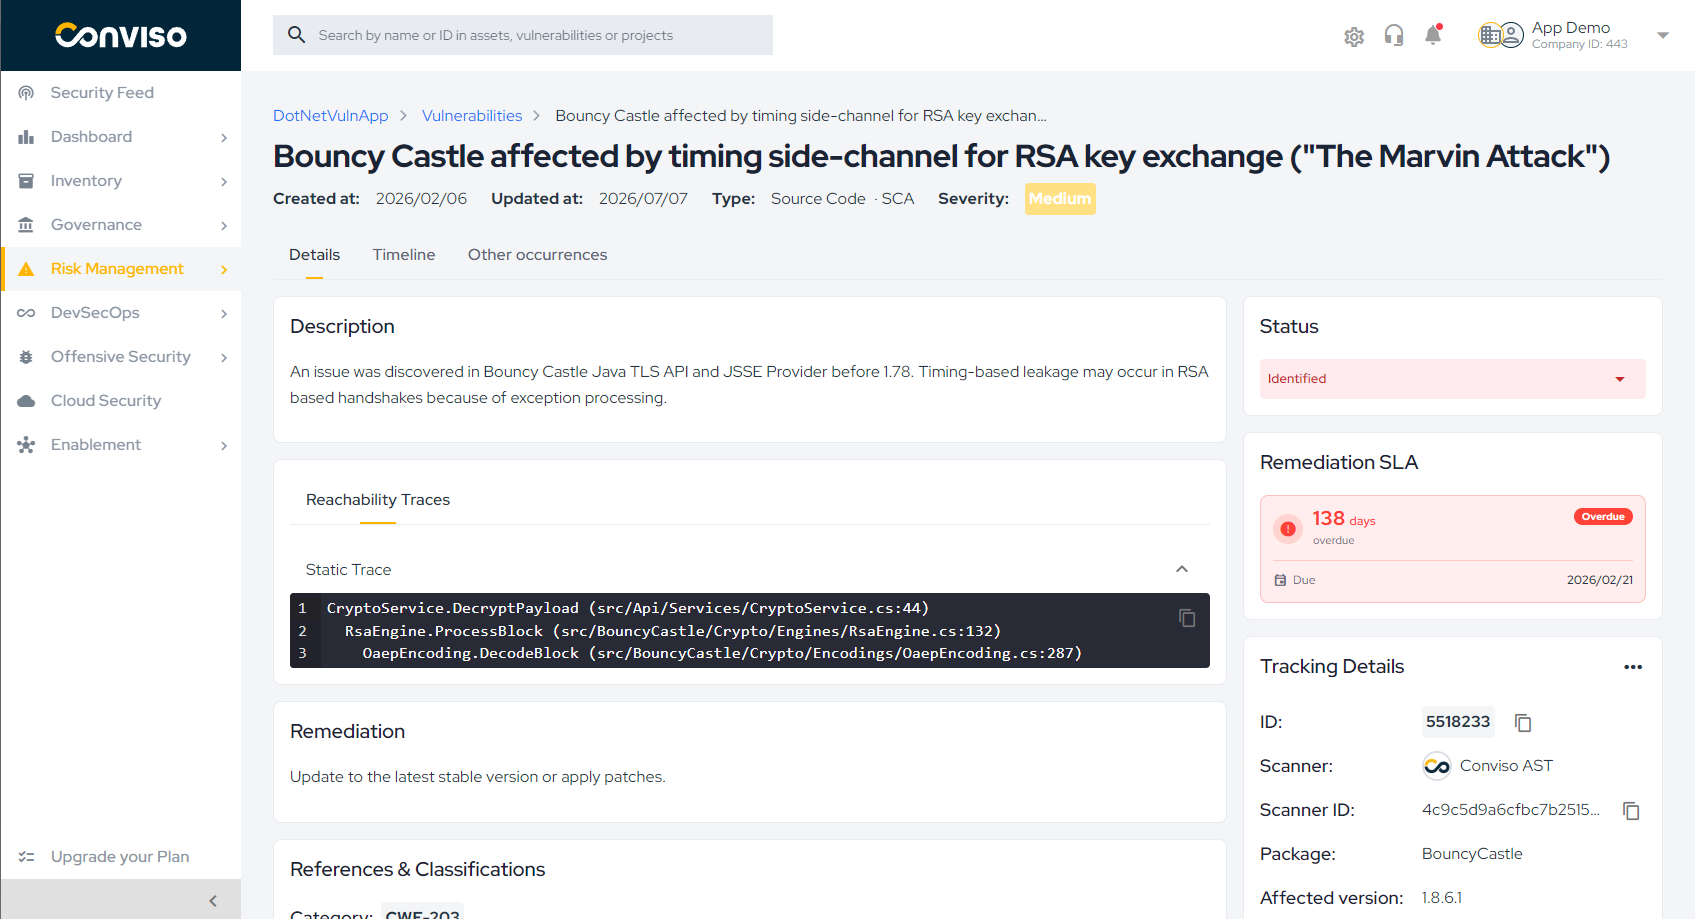
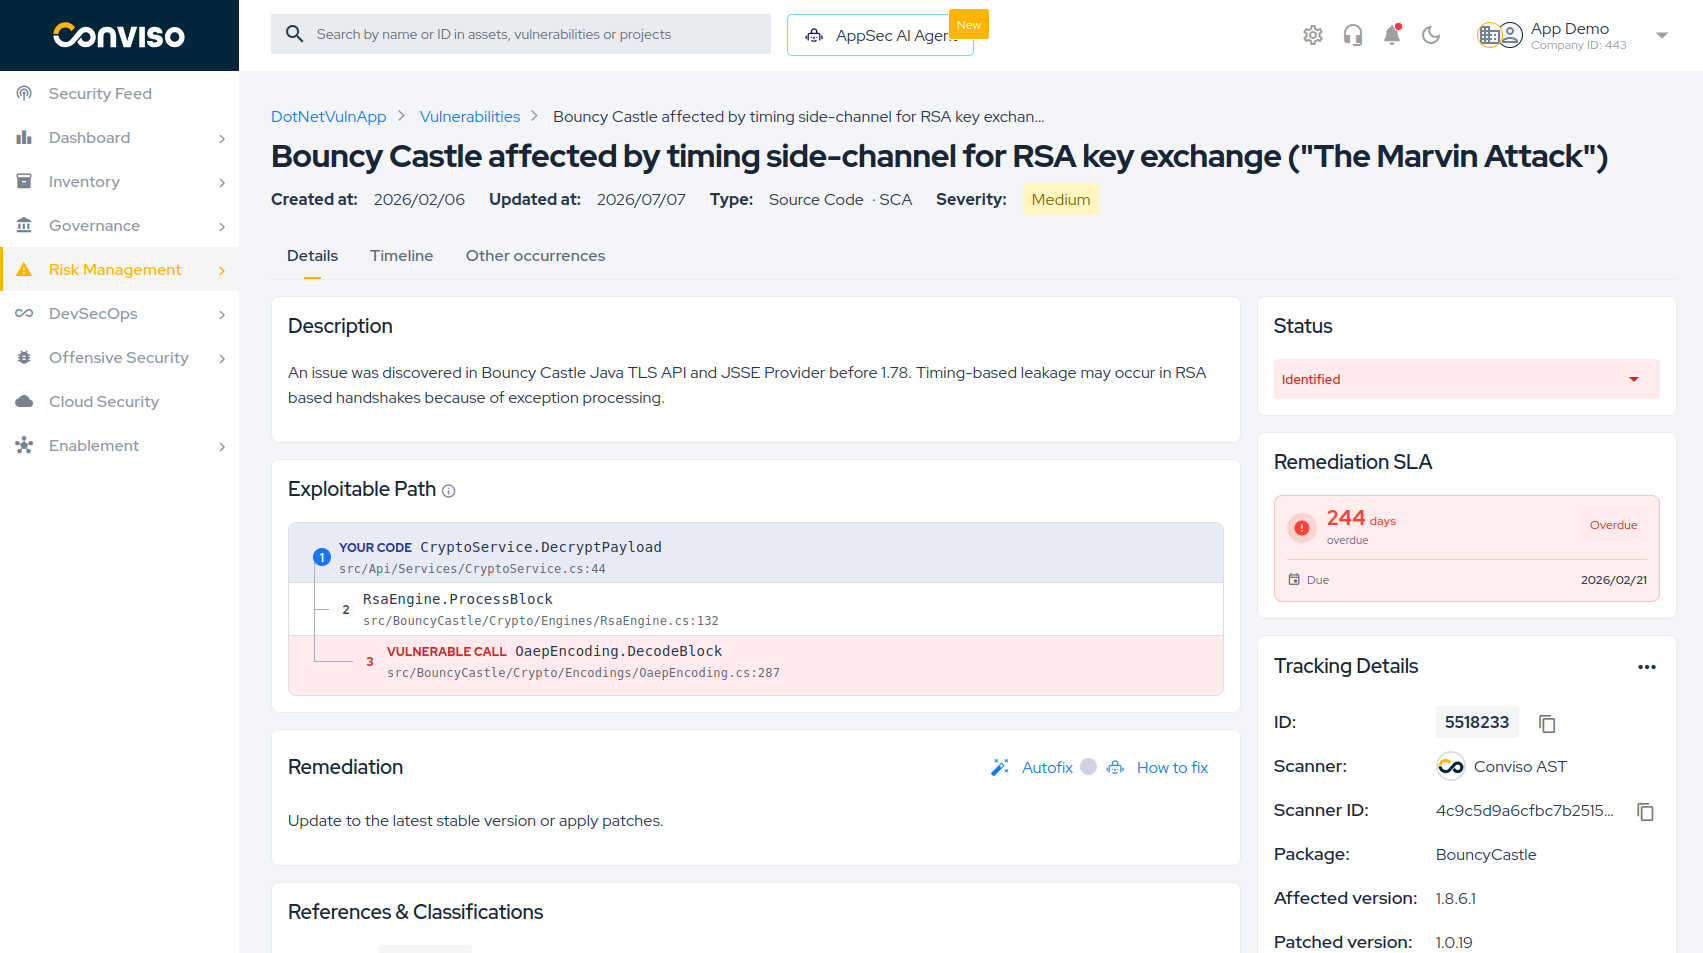
docs(reachability): update path graph screenshot

diff --git a/docs/security-scans/reachability-analysis.md b/docs/security-scans/reachability-analysis.md
@@ -50,13 +50,13 @@ On the vulnerability detail page, SCA findings display a **Reachability Status**
 
 </div>
 
-### Reachability Traces
+### Exploitable Path
 
-When a finding is marked reachable, a **Reachability Traces** tab becomes available on the vulnerability detail page. It shows the call trace as a sequence of hops (`function_name (file_path:line)`), so you can review exactly how the vulnerable function is reached in your code.
+When a finding is marked reachable, an **Exploitable Path** card is displayed on the vulnerability detail page. It shows the call trace as a sequence of hops (`function_name (file_path:line)`), so you can review exactly how the vulnerable function is reached in your code.
 
 <div style={{textAlign: 'center'}}>
 
-![Reachability Traces Tab](../../static/img/platform/reachability-analysis-trace.png "Reachability Traces Tab")
+![Exploitable Path](../../static/img/platform/reachability-analysis-trace.png "Exploitable Path")
 
 </div>
 
